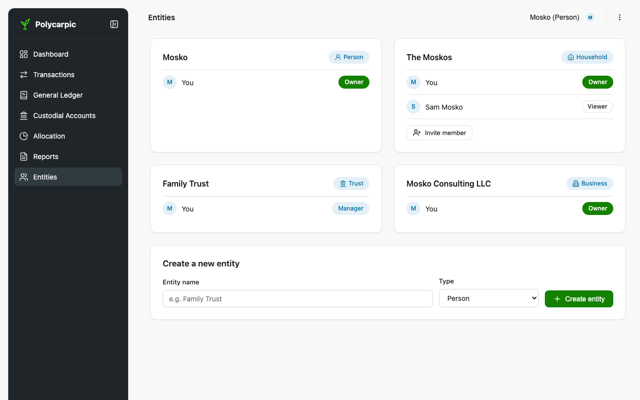
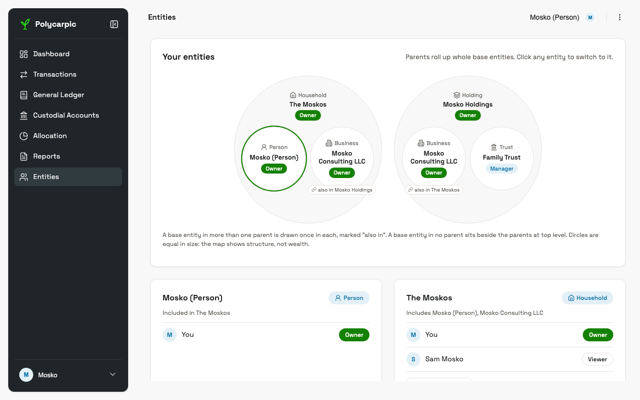
design(flows-refine): entity roll-up model, Pack map, drill-through boundary
Parents (Household, Holding) roll up whole base entities (Person, Trust,
Business); a base entity may sit in several parents. Entities opens with
a Pack-style roll-up map (shared entity drawn in each parent with an
'also in' chip, equal circle sizes), the membership list below as the
accessible fallback. Flow 5.7 rewritten: switcher always present, roll-up
nested, drill-through boundary panel for included entities without
membership. Spec § Entities & membership extended.

Claude-Session: https://claude.ai/code/session_01ShccjGpngWMgusX4atqtRi

diff --git a/docs/DESIGN/styled-screens/entities.html b/docs/DESIGN/styled-screens/entities.html
@@ -8,7 +8,7 @@
 <link rel="stylesheet" href="../screen.css">
 </head>
 <body>
-<!-- Entities (pass 5; styled pass 13). One card per entity the user belongs to. A Household's membership never implies access to a member Person's finances, or vice versa: every grant is an explicit row here. Role badges use decreasing weight: Owner (default) / Manager (secondary) / Viewer (outline). Invite shows only where the user is an Owner of a multi-member entity in this mock. -->
+<!-- Entities. Top: the roll-up map (LayerChart Pack in the build; static flex circles here). Parents (Household, Holding) roll up WHOLE base entities (Person, Trust, Business); a base entity in several parents is drawn once in each with an "also in" marker; circles are equal in size (structure, not wealth). Each circle switches entity; the current entity has a ring. Below: one card per entity the user holds membership on, the accessible fallback, with Includes / Included in lines. A parent's membership never implies access to an included base entity, or vice versa: every grant is an explicit row here. Role badges use decreasing weight: Owner (default) / Manager (secondary) / Viewer (outline). -->
 <div class="shell">
   <aside class="sidebar" id="app-sidebar">
     <!-- Brand row (pass 12, Gemini pattern): expanded = logo + wordmark,
@@ -56,23 +56,55 @@
     </div>
 
   <main class="content" style="padding-top:8px;">
-    <div class="card-grid" style="grid-template-columns:repeat(2, 1fr);">
+    <div class="card pack-card" aria-labelledby="pack-title">
+      <div class="card-head">
+        <span class="card-title" id="pack-title">Your entities</span>
+        <span class="card-sub">Parents roll up whole base entities. Click any entity to switch to it.</span>
+      </div>
+      <div class="pack" role="group" aria-label="Entity roll-up: The Moskos includes Mosko (Person) and Mosko Consulting LLC; Mosko Holdings includes Mosko Consulting LLC and Family Trust">
+      <div class="pack-parent">
+        <a class="pack-parent-head" href="dashboard.html" aria-label="Switch to The Moskos, Household, Owner"><span class="pack-type"><span class="icon icon-sm"><svg viewBox="0 0 24 24" fill="none" stroke="currentColor" stroke-width="2" stroke-linecap="round" stroke-linejoin="round" aria-hidden="true"><path d="M15 21v-8a1 1 0 0 0-1-1h-4a1 1 0 0 0-1 1v8"/><path d="M3 10a2 2 0 0 1 .709-1.528l7-5.999a2 2 0 0 1 2.582 0l7 5.999A2 2 0 0 1 21 10v9a2 2 0 0 1-2 2H5a2 2 0 0 1-2-2z"/></svg></span>Household</span><span class="pack-name">The Moskos</span><span class="badge badge-sm badge-default">Owner</span></a>
+        <div class="pack-children">
+          <a class="pack-child pack-current" href="dashboard.html" aria-current="true" aria-label="Switch to Mosko (Person), Person, Owner"><span class="pack-type"><span class="icon icon-sm"><svg viewBox="0 0 24 24" fill="none" stroke="currentColor" stroke-width="2" stroke-linecap="round" stroke-linejoin="round" aria-hidden="true"><circle cx="12" cy="8" r="5"/><path d="M20 21a8 8 0 0 0-16 0"/></svg></span>Person</span><span class="pack-name">Mosko (Person)</span><span class="badge badge-sm badge-default">Owner</span></a>
+          <a class="pack-child" href="dashboard.html" aria-label="Switch to Mosko Consulting LLC, Business, Owner, also in Mosko Holdings"><span class="pack-type"><span class="icon icon-sm"><svg viewBox="0 0 24 24" fill="none" stroke="currentColor" stroke-width="2" stroke-linecap="round" stroke-linejoin="round" aria-hidden="true"><path d="M6 22V4a2 2 0 0 1 2-2h8a2 2 0 0 1 2 2v18Z"/><path d="M6 12H4a2 2 0 0 0-2 2v6a2 2 0 0 0 2 2h2"/><path d="M18 9h2a2 2 0 0 1 2 2v9a2 2 0 0 1-2 2h-2"/><path d="M10 6h4"/><path d="M10 10h4"/><path d="M10 14h4"/><path d="M10 18h4"/></svg></span>Business</span><span class="pack-name">Mosko Consulting LLC</span><span class="badge badge-sm badge-default">Owner</span><span class="pack-also"><span class="icon icon-sm"><svg viewBox="0 0 24 24" fill="none" stroke="currentColor" stroke-width="2" stroke-linecap="round" stroke-linejoin="round" aria-hidden="true"><path d="M10 13a5 5 0 0 0 7.54.54l3-3a5 5 0 0 0-7.07-7.07l-1.72 1.71"/><path d="M14 11a5 5 0 0 0-7.54-.54l-3 3a5 5 0 0 0 7.07 7.07l1.71-1.71"/></svg></span>also in Mosko Holdings</span></a>
+        </div>
+      </div>
+      <div class="pack-parent">
+        <a class="pack-parent-head" href="dashboard.html" aria-label="Switch to Mosko Holdings, Holding, Owner"><span class="pack-type"><span class="icon icon-sm"><svg viewBox="0 0 24 24" fill="none" stroke="currentColor" stroke-width="2" stroke-linecap="round" stroke-linejoin="round" aria-hidden="true"><path d="m12.83 2.18a2 2 0 0 0-1.66 0L2.6 6.08a1 1 0 0 0 0 1.83l8.58 3.91a2 2 0 0 0 1.66 0l8.58-3.9a1 1 0 0 0 0-1.83Z"/><path d="m22 17.65-9.17 4.16a2 2 0 0 1-1.66 0L2 17.65"/><path d="m22 12.65-9.17 4.16a2 2 0 0 1-1.66 0L2 12.65"/></svg></span>Holding</span><span class="pack-name">Mosko Holdings</span><span class="badge badge-sm badge-default">Owner</span></a>
+        <div class="pack-children">
+          <a class="pack-child" href="dashboard.html" aria-label="Switch to Mosko Consulting LLC, Business, Owner, also in The Moskos"><span class="pack-type"><span class="icon icon-sm"><svg viewBox="0 0 24 24" fill="none" stroke="currentColor" stroke-width="2" stroke-linecap="round" stroke-linejoin="round" aria-hidden="true"><path d="M6 22V4a2 2 0 0 1 2-2h8a2 2 0 0 1 2 2v18Z"/><path d="M6 12H4a2 2 0 0 0-2 2v6a2 2 0 0 0 2 2h2"/><path d="M18 9h2a2 2 0 0 1 2 2v9a2 2 0 0 1-2 2h-2"/><path d="M10 6h4"/><path d="M10 10h4"/><path d="M10 14h4"/><path d="M10 18h4"/></svg></span>Business</span><span class="pack-name">Mosko Consulting LLC</span><span class="badge badge-sm badge-default">Owner</span><span class="pack-also"><span class="icon icon-sm"><svg viewBox="0 0 24 24" fill="none" stroke="currentColor" stroke-width="2" stroke-linecap="round" stroke-linejoin="round" aria-hidden="true"><path d="M10 13a5 5 0 0 0 7.54.54l3-3a5 5 0 0 0-7.07-7.07l-1.72 1.71"/><path d="M14 11a5 5 0 0 0-7.54-.54l-3 3a5 5 0 0 0 7.07 7.07l1.71-1.71"/></svg></span>also in The Moskos</span></a>
+          <a class="pack-child" href="dashboard.html" aria-label="Switch to Family Trust, Trust, Manager"><span class="pack-type"><span class="icon icon-sm"><svg viewBox="0 0 24 24" fill="none" stroke="currentColor" stroke-width="2" stroke-linecap="round" stroke-linejoin="round" aria-hidden="true"><line x1="3" x2="21" y1="22" y2="22"/><line x1="6" x2="6" y1="18" y2="11"/><line x1="10" x2="10" y1="18" y2="11"/><line x1="14" x2="14" y1="18" y2="11"/><line x1="18" x2="18" y1="18" y2="11"/><polygon points="12 2 20 7 4 7"/></svg></span>Trust</span><span class="pack-name">Family Trust</span><span class="badge badge-sm badge-secondary">Manager</span></a>
+        </div>
+      </div>
+      </div>
+      <p class="tm-note">A base entity in more than one parent is drawn once in each, marked "also in". A base entity in no parent sits beside the parents at top level. Circles are equal in size: the map shows structure, not wealth.</p>
+    </div>
+    <div class="card-grid" style="grid-template-columns:repeat(2, 1fr); margin-top:24px;">
       <div class="card entity-card">
-        <div class="entity-head"><span class="entity-name">Mosko</span><span class="badge badge-secondary"><span class="icon icon-sm"><svg viewBox="0 0 24 24" fill="none" stroke="currentColor" stroke-width="2" stroke-linecap="round" stroke-linejoin="round"><circle cx="12" cy="8" r="5"/><path d="M20 21a8 8 0 0 0-16 0"/></svg></span>Person</span></div>
+        <div class="entity-head"><span class="entity-name">Mosko (Person)</span><span class="badge badge-secondary"><span class="icon icon-sm"><svg viewBox="0 0 24 24" fill="none" stroke="currentColor" stroke-width="2" stroke-linecap="round" stroke-linejoin="round"><circle cx="12" cy="8" r="5"/><path d="M20 21a8 8 0 0 0-16 0"/></svg></span>Person</span></div>
+        <div class="entity-rel">Included in The Moskos</div>
         <div class="member-row"><span class="avatar">M</span><span class="member-name">You</span><span class="badge badge-default">Owner</span></div>
       </div>
       <div class="card entity-card">
         <div class="entity-head"><span class="entity-name">The Moskos</span><span class="badge badge-secondary"><span class="icon icon-sm"><svg viewBox="0 0 24 24" fill="none" stroke="currentColor" stroke-width="2" stroke-linecap="round" stroke-linejoin="round"><path d="M15 21v-8a1 1 0 0 0-1-1h-4a1 1 0 0 0-1 1v8"/><path d="M3 10a2 2 0 0 1 .709-1.528l7-5.999a2 2 0 0 1 2.582 0l7 5.999A2 2 0 0 1 21 10v9a2 2 0 0 1-2 2H5a2 2 0 0 1-2-2z"/></svg></span>Household</span></div>
+        <div class="entity-rel">Includes Mosko (Person), Mosko Consulting LLC</div>
         <div class="member-row"><span class="avatar">M</span><span class="member-name">You</span><span class="badge badge-default">Owner</span></div>
         <div class="member-row"><span class="avatar">S</span><span class="member-name">Sam Mosko</span><span class="badge badge-outline">Viewer</span></div>
         <div style="padding-top:12px; border-top:1px solid var(--border);"><button class="btn btn-outline btn-sm"><span class="icon"><svg viewBox="0 0 24 24" fill="none" stroke="currentColor" stroke-width="2" stroke-linecap="round" stroke-linejoin="round"><path d="M16 21v-2a4 4 0 0 0-4-4H6a4 4 0 0 0-4 4v2"/><circle cx="9" cy="7" r="4"/><line x1="19" x2="19" y1="8" y2="14"/><line x1="22" x2="16" y1="11" y2="11"/></svg></span>Invite member</button></div>
       </div>
       <div class="card entity-card">
         <div class="entity-head"><span class="entity-name">Family Trust</span><span class="badge badge-secondary"><span class="icon icon-sm"><svg viewBox="0 0 24 24" fill="none" stroke="currentColor" stroke-width="2" stroke-linecap="round" stroke-linejoin="round"><line x1="3" x2="21" y1="22" y2="22"/><line x1="6" x2="6" y1="18" y2="11"/><line x1="10" x2="10" y1="18" y2="11"/><line x1="14" x2="14" y1="18" y2="11"/><line x1="18" x2="18" y1="18" y2="11"/><polygon points="12 2 20 7 4 7"/></svg></span>Trust</span></div>
+        <div class="entity-rel">Included in Mosko Holdings</div>
         <div class="member-row"><span class="avatar">M</span><span class="member-name">You</span><span class="badge badge-secondary">Manager</span></div>
       </div>
       <div class="card entity-card">
         <div class="entity-head"><span class="entity-name">Mosko Consulting LLC</span><span class="badge badge-secondary"><span class="icon icon-sm"><svg viewBox="0 0 24 24" fill="none" stroke="currentColor" stroke-width="2" stroke-linecap="round" stroke-linejoin="round"><path d="M6 22V4a2 2 0 0 1 2-2h8a2 2 0 0 1 2 2v18Z"/><path d="M6 12H4a2 2 0 0 0-2 2v6a2 2 0 0 0 2 2h2"/><path d="M18 9h2a2 2 0 0 1 2 2v9a2 2 0 0 1-2 2h-2"/><path d="M10 6h4"/><path d="M10 10h4"/><path d="M10 14h4"/><path d="M10 18h4"/></svg></span>Business</span></div>
+        <div class="entity-rel">Included in The Moskos, Mosko Holdings</div>
+        <div class="member-row"><span class="avatar">M</span><span class="member-name">You</span><span class="badge badge-default">Owner</span></div>
+      </div>
+      <div class="card entity-card">
+        <div class="entity-head"><span class="entity-name">Mosko Holdings</span><span class="badge badge-secondary"><span class="icon icon-sm"><svg viewBox="0 0 24 24" fill="none" stroke="currentColor" stroke-width="2" stroke-linecap="round" stroke-linejoin="round" aria-hidden="true"><path d="m12.83 2.18a2 2 0 0 0-1.66 0L2.6 6.08a1 1 0 0 0 0 1.83l8.58 3.91a2 2 0 0 0 1.66 0l8.58-3.9a1 1 0 0 0 0-1.83Z"/><path d="m22 17.65-9.17 4.16a2 2 0 0 1-1.66 0L2 17.65"/><path d="m22 12.65-9.17 4.16a2 2 0 0 1-1.66 0L2 12.65"/></svg></span>Holding</span></div>
+        <div class="entity-rel">Includes Mosko Consulting LLC, Family Trust</div>
         <div class="member-row"><span class="avatar">M</span><span class="member-name">You</span><span class="badge badge-default">Owner</span></div>
       </div>
     </div>
@@ -80,7 +112,7 @@
       <div class="card-title">Create a new entity</div>
       <div class="form-row">
         <div class="field"><label for="new-entity">Entity name</label><input id="new-entity" class="input" type="text" placeholder="e.g. Family Trust"></div>
-        <div class="field"><label for="new-type">Type</label><select id="new-type" class="select"><option>Person</option><option>Trust</option><option>Business</option><option>Household</option></select></div>
+        <div class="field"><label for="new-type">Type</label><select id="new-type" class="select"><option>Person</option><option>Trust</option><option>Business</option><option>Household</option><option>Holding</option></select></div>
         <button class="btn btn-default"><span class="icon"><svg viewBox="0 0 24 24" fill="none" stroke="currentColor" stroke-width="2" stroke-linecap="round" stroke-linejoin="round"><path d="M5 12h14"/><path d="M12 5v14"/></svg></span>Create entity</button>
       </div>
     </div>

diff --git a/docs/DESIGN/index.html b/docs/DESIGN/index.html
@@ -373,14 +373,13 @@ flowchart TD
     <li><strong>Nominal / CPI-U toggle</strong> (PRD §4.10) is orthogonal to actual-vs-target: it restates dollar figures and the over-time view in real terms; the percentage split itself does not change with the basis.</li>
   </ul>
 
-  <h3 id="flow-entity-membership">5.7 Entity switch &amp; membership access</h3>
-  <p class="section-hint"><strong>Story (PRD §4.9):</strong> owner / manager / viewer boundary. Source: <a href="flows/entity-membership-flow.md">flows/entity-membership-flow.md</a>.</p>
+  <h3 id="flow-entity-membership">5.7 Entity switch, roll-up &amp; membership access</h3>
+  <p class="section-hint"><strong>Story (PRD §4.9):</strong> parents roll up whole base entities; owner / manager / viewer per entity; the drill-through boundary. Source: <a href="flows/entity-membership-flow.md">flows/entity-membership-flow.md</a>.</p>
   <pre class="mermaid">
 flowchart TD
-  login([User logs in]) --> memberships[Load user's memberships:\nentity, role]
-  memberships --> list{More than one\nentity?}
-  list -- no --> single[Land directly on the\none entity, no switcher shown]
-  list -- yes --> switcher[Entity switcher in header:\nlist entities by membership]
+  login([User logs in]) --> memberships[Load memberships:\nbase and parent entities,\nrole on each]
+  memberships --> land[Land on last-viewed entity,\nelse the user's own Person entity]
+  land --> switcher[Entity switcher, always present:\nevery entity with membership,\nparents with their included\nbase entities nested]
   switcher --> select[User selects an entity]
   select --> roleCheck{Role on\nselected entity}
   roleCheck -- owner --> ownerView[Full read/write:\npost, edit memberships, purge]
@@ -390,12 +389,22 @@ flowchart TD
   managerView --> guard
   viewerView --> guard
   guard -- "no (always)" --> explicit[Only explicit membership\ngrants access, never inherited]
-  explicit --> render([Render scoped dashboard])
+  explicit --> kind{Selected entity\nis a parent?}
+  kind -- no --> baseView([Render the base entity's\nown ledger and accounts])
+  kind -- yes --> consolidated[Render consolidated figures\nacross the whole included\nbase entities]
+  consolidated --> drill[User clicks a figure\nfrom an included entity]
+  drill --> boundary{Membership on\nthat base entity?}
+  boundary -- yes --> into([Drill into that entity's\nregister or lots])
+  boundary -- no --> stop([Boundary panel:\nIncluded from the named entity,\nno access to its ledger])
   </pre>
   <ul>
-    <li>A Household's membership never transitively grants access to a member Person entity, or vice versa — every access is an explicit membership row (PRD §5, hard requirement).</li>
-    <li>Role badges (<code>Owner</code> / <code>Manager</code> / <code>Viewer</code>) use decreasing visual weight — <code>default</code> / <code>secondary</code> / <code>outline</code> — matching the product-wide "variant weight encodes meaning" rule (design-system-spec.md § Entity, account, and category badges).</li>
+    <li><strong>Base and parent entities.</strong> Accounts (custodial and GL) live only in base entities: Person, Trust, Business. A parent (Household; Holding) rolls up <strong>whole</strong> base entities, never individual accounts. A base entity may belong to more than one parent.</li>
+    <li><strong>The switcher is always present,</strong> because every user owns at least their own Person entity. It lists every entity the user holds membership on, base and parent, with each parent's included base entities nested under it; a base entity in two parents is listed under both.</li>
+    <li><strong>Access is explicit membership only</strong> (PRD §5, hard requirement): a parent's membership never grants access to an included base entity, or vice versa.</li>
+    <li><strong>The drill-through boundary.</strong> A parent viewer sees the parent's consolidated figures. Every figure stays clickable; a drill into an included base entity the user has no membership on opens a boundary panel — "Included from &lt;entity&gt;. You don't have access to that entity's ledger." — instead of the register, never a disabled number or a silent dead end.</li>
+    <li>Role badges (<code>Owner</code> / <code>Manager</code> / <code>Viewer</code>) use decreasing visual weight — <code>default</code> / <code>secondary</code> / <code>outline</code> (design-system-spec.md § Entity, account, and category badges).</li>
     <li>A viewer never sees a write affordance rendered-then-disabled: write controls are omitted entirely for a role that cannot use them.</li>
+    <li><strong>Roll-up map:</strong> Entities opens with a Pack of every entity the user holds membership on — parents as circles holding their base entities, a shared base entity drawn once in each parent with an "also in" marker; each circle switches entity. The membership list below it is the accessible fallback. See design-system-spec.md § Entities &amp; membership.</li>
   </ul>
 
   <h3 id="flow-general-ledger">5.8 General Ledger: tree, register, entry</h3>
@@ -484,7 +493,7 @@ flowchart TD
     <figure class="screen-card"><a href="styled-screens/custodial-accounts.html"><img src="styled-screens/thumbs/custodial-accounts.png" alt="Custodial Accounts screen"></a><figcaption><a href="styled-screens/custodial-accounts.html">Custodial Accounts</a><span>Totals card, then per-account cards: cash, book value and market value side by side, link health, reconciliation, a lots sub-card; the provider-item dialog shown open.</span></figcaption></figure>
     <figure class="screen-card"><a href="styled-screens/allocation.html"><img src="styled-screens/thumbs/allocation.png" alt="Allocation screen"></a><figcaption><a href="styled-screens/allocation.html">Allocation</a><span>Actual vs. target by asset class with target markers, each class drilling to its lots; target editor; nominal / CPI-U toggle.</span></figcaption></figure>
     <figure class="screen-card"><a href="styled-screens/reports.html"><img src="styled-screens/thumbs/reports.png" alt="Reports screen"></a><figcaption><a href="styled-screens/reports.html">Reports</a><span>Balance Sheet empty state plus dimmed previews of the Income Statement and Cash Flow shapes.</span></figcaption></figure>
-    <figure class="screen-card"><a href="styled-screens/entities.html"><img src="styled-screens/thumbs/entities.png" alt="Entities screen"></a><figcaption><a href="styled-screens/entities.html">Entities</a><span>Membership cards with entity-type and role badges, invite, and create.</span></figcaption></figure>
+    <figure class="screen-card"><a href="styled-screens/entities.html"><img src="styled-screens/thumbs/entities.png" alt="Entities screen"></a><figcaption><a href="styled-screens/entities.html">Entities</a><span>Roll-up map (Pack): parents holding whole base entities, a shared entity drawn in each parent; membership cards with Includes / Included in, role badges, invite and create below.</span></figcaption></figure>
     <figure class="screen-card"><a href="styled-screens/settings.html"><img src="styled-screens/thumbs/settings.png" alt="Settings screen"></a><figcaption><a href="styled-screens/settings.html">Settings</a><span>Per-entity import schedule and options, per-user preferences; avatar popover open with Settings current (proposed entry point).</span></figcaption></figure>
   </div>
   <h3>Public &amp; onboarding</h3>

diff --git a/docs/DESIGN/screen.css b/docs/DESIGN/screen.css
@@ -1559,3 +1559,24 @@ table.data-table tr.opening td { color: var(--muted-foreground); font-style: ita
 .tm-equity { background: var(--chart-5); }
 .tm-note { margin-top: 10px; font-size: 12px; color: var(--muted-foreground); line-height: 1.5; }
 .tm-note a { color: var(--primary); }
+
+/* ---------- Entity roll-up map (Entities). The build uses LayerChart's
+   Pack (d3.pack); this static mock draws the same picture with flex
+   circles. Parents are --muted circles holding their base entities as
+   --card circles; a base entity in two parents appears in both with an
+   "also in" chip. All circles in a level share one size: the map shows
+   structure, not wealth (sizing by balance would also leak magnitude
+   across an access boundary). The current entity carries a --ring. */
+.pack { display: flex; flex-wrap: wrap; justify-content: center; gap: 24px; padding: 8px 0 4px; }
+.pack-parent { width: 296px; aspect-ratio: 1; border-radius: 50%; background: var(--muted); border: 1px solid var(--border); display: flex; flex-direction: column; align-items: center; padding-top: 28px; box-sizing: border-box; }
+.pack-parent-head { display: flex; flex-direction: column; align-items: center; gap: 3px; text-decoration: none; color: var(--foreground); border-radius: var(--radius-md); padding: 2px 8px; }
+.pack-children { display: flex; gap: 8px; margin-top: 10px; }
+.pack-child { position: relative; width: 128px; aspect-ratio: 1; border-radius: 50%; background: var(--card); border: 1px solid var(--border); display: flex; flex-direction: column; align-items: center; justify-content: center; gap: 4px; padding: 10px; box-sizing: border-box; text-align: center; text-decoration: none; color: var(--foreground); }
+.pack-child:hover, .pack-parent-head:hover { background: var(--accent); }
+.pack-child:focus-visible, .pack-parent-head:focus-visible { outline: 2px solid var(--ring); outline-offset: 2px; }
+.pack-current { box-shadow: 0 0 0 2px var(--ring); }
+.pack-type { display: inline-flex; align-items: center; gap: 4px; font-size: 11px; color: var(--muted-foreground); }
+.pack-name { font-size: 13px; font-weight: 600; line-height: 1.25; }
+.pack-also { position: absolute; bottom: -9px; left: 50%; transform: translateX(-50%); white-space: nowrap; display: inline-flex; align-items: center; gap: 3px; font-size: 10px; padding: 1px 6px; border-radius: 999px; background: var(--card); border: 1px solid var(--border); color: var(--muted-foreground); }
+.pack-also .icon { width: 10px; height: 10px; }
+.entity-rel { font-size: 12px; color: var(--muted-foreground); margin: -4px 0 10px; }

diff --git a/docs/DESIGN/design-system-spec.md b/docs/DESIGN/design-system-spec.md
@@ -365,7 +365,7 @@ Meaning by label/icon/variant weight, not a dedicated hue per category.
 
 | Category | Variant | Icon (Lucide, indicative) |
 |---|---|---|
-| Entity type — Person / Trust / Business / Household | `secondary` | `User` / `Landmark` / `Building2` / `Home` |
+| Entity type — Person / Trust / Business (base); Household / Holding (parent) | `secondary` | `User` / `Landmark` / `Building2` / `Home` / `Layers` |
 | Account — GL / Custodial | `outline` | `BookText` / `Landmark` |
 | Transaction — Draft / Posted / Reversed / **Corrected** | `secondary` / `outline` / `outline` italic / **`outline` + `brand-2`-tinted dot** | `Clock` / `Check` / `RotateCcw` / `Pencil` |
 | Role — Owner / Manager / Viewer | `default` / `secondary` / `outline` | — |
@@ -505,8 +505,15 @@ See `styled-screens/allocation.html`, `styled-screens/reports.html`, `styled-scr
 **Every user owns a default base entity from account creation.** Creating an account also creates a **Person** entity named after the user (`<Name> (Person)`, e.g. "Mosko (Person)"), with the user as its owner. It is the base unit for the user's personal custodial accounts. There is therefore no signed-in state without an entity: sign-in always lands on a dashboard.
 
 - **Landing entity on sign-in:** the last-viewed entity, else the user's own Person entity. An invited user's first sign-in lands on the entity they were invited to.
-- **Broader structures are created from Entities:** a Trust, a Business, or a Household that rolls up base entities. The roll-up model and its visualisation are not yet specified.
-- **Access is explicit membership only** (owner / manager / viewer), never inherited through a roll-up — flow 5.7.
+- **Base entities hold the accounts.** Custodial and GL accounts live only in base entities: Person, Trust, Business. Further base entities are created from Entities.
+- **Parent entities roll up whole base entities.** A parent (Household; Holding for a holding structure) includes whole base entities, never individual accounts, and shows their consolidated figures. A base entity may belong to more than one parent (a Business in a Household and in a Holding).
+- **Access is explicit membership only** (owner / manager / viewer), never inherited through a roll-up in either direction — flow 5.7.
+
+**The drill-through boundary.** A parent's viewer sees the parent's consolidated figures, and every figure stays clickable. Drilling into a figure that comes from an included base entity the user holds no membership on opens a **boundary panel** in place of that entity's register: the entity's name and type badge, the text "Included from <entity>. You don't have access to that entity's ledger.", and a way back. No number is greyed or made unclickable, and nothing is shown from beyond the boundary beyond the figure the parent already showed.
+
+**The entity switcher** (header entity selector) is always present: every user holds at least their own Person entity. It lists every entity the user holds membership on, base and parent, with each parent's included base entities nested beneath it; a base entity in two parents is listed under both. An included entity the user has no membership on is listed with a lock, and selecting it opens the boundary panel.
+
+**Roll-up map (Entities).** A card above the membership list draws every entity the user holds membership on as a **Pack** (LayerChart `Pack`, d3.pack, for frontend-lead): parents as `--muted` circles, each holding its base entities as `--card` circles; a base entity in no parent sits at top level. A base entity in several parents is drawn once in each, with an "also in <parent>" chip; there is no overlap geometry. Each circle shows the type icon and label, name and role badge, and switches to that entity on click; the current entity carries a `--ring`. **Circles are equal in size per level:** the map shows structure, not wealth. Sizing by balance would shrink small entities past legibility and would leak magnitude across the access boundary. The membership list below stays the accessible fallback, each card with an Includes / Included in line. Dashboard roll-ups may likewise list an included entity under each parent it belongs to.
 
 See `styled-screens/entities.html`.
 

diff --git a/docs/DESIGN/flows/entity-membership-flow.md b/docs/DESIGN/flows/entity-membership-flow.md
@@ -1,13 +1,12 @@
-# Flow: Entity switch & membership access
+# Flow: Entity switch, roll-up & membership access
 
 **Story (PRD §4.9):** As a household member with a granted viewer role, I want to see the household's shared accounts and my own entity's finances, so that I have visibility into our joint financial picture without owning the underlying ledger.
 
 ```mermaid
 flowchart TD
-  login([User logs in]) --> memberships[Load user's memberships:\nentity, role]
-  memberships --> list{More than one\nentity?}
-  list -- no --> single[Land directly on the\none entity, no switcher shown]
-  list -- yes --> switcher[Entity switcher in header:\nlist entities by membership]
+  login([User logs in]) --> memberships[Load memberships:\nbase and parent entities,\nrole on each]
+  memberships --> land[Land on last-viewed entity,\nelse the user's own Person entity]
+  land --> switcher[Entity switcher, always present:\nevery entity with membership,\nparents with their included\nbase entities nested]
   switcher --> select[User selects an entity]
   select --> roleCheck{Role on\nselected entity}
   roleCheck -- owner --> ownerView[Full read/write:\npost, edit memberships, purge]
@@ -17,10 +16,20 @@ flowchart TD
   managerView --> guard
   viewerView --> guard
   guard -- "no (always)" --> explicit[Only explicit membership\ngrants access, never inherited]
-  explicit --> render([Render scoped dashboard])
+  explicit --> kind{Selected entity\nis a parent?}
+  kind -- no --> baseView([Render the base entity's\nown ledger and accounts])
+  kind -- yes --> consolidated[Render consolidated figures\nacross the whole included\nbase entities]
+  consolidated --> drill[User clicks a figure\nfrom an included entity]
+  drill --> boundary{Membership on\nthat base entity?}
+  boundary -- yes --> into([Drill into that entity's\nregister or lots])
+  boundary -- no --> stop([Boundary panel:\nIncluded from the named entity,\nno access to its ledger])
 ```
 
 **Notes**
-- A Household's membership never transitively grants access to a member Person entity, or vice versa — every access is an explicit membership row (PRD §5, hard requirement).
-- Role badges (`Owner` / `Manager` / `Viewer`) use decreasing visual weight — `default` / `secondary` / `outline` — matching the product-wide "variant weight encodes meaning" rule (design-system-spec.md § Entity, account, and category badges).
+- **Base and parent entities.** Accounts (custodial and GL) live only in base entities: Person, Trust, Business. A parent (Household; Holding) rolls up **whole** base entities, never individual accounts. A base entity may belong to more than one parent.
+- **The switcher is always present,** because every user owns at least their own Person entity. It lists every entity the user holds membership on, base and parent, with each parent's included base entities nested under it; a base entity in two parents is listed under both.
+- **Access is explicit membership only** (PRD §5, hard requirement): a parent's membership never grants access to an included base entity, or vice versa.
+- **The drill-through boundary.** A parent viewer sees the parent's consolidated figures. Every figure stays clickable; a drill into an included base entity the user has no membership on opens a boundary panel — "Included from <entity>. You don't have access to that entity's ledger." — instead of the register, never a disabled number or a silent dead end.
+- Role badges (`Owner` / `Manager` / `Viewer`) use decreasing visual weight — `default` / `secondary` / `outline` (design-system-spec.md § Entity, account, and category badges).
 - A viewer never sees a write affordance rendered-then-disabled: write controls are omitted entirely for a role that cannot use them.
+- **Roll-up map:** Entities opens with a Pack of every entity the user holds membership on — parents as circles holding their base entities, a shared base entity drawn once in each parent with an "also in" marker; each circle switches entity. The membership list below it is the accessible fallback. See design-system-spec.md § Entities & membership.
